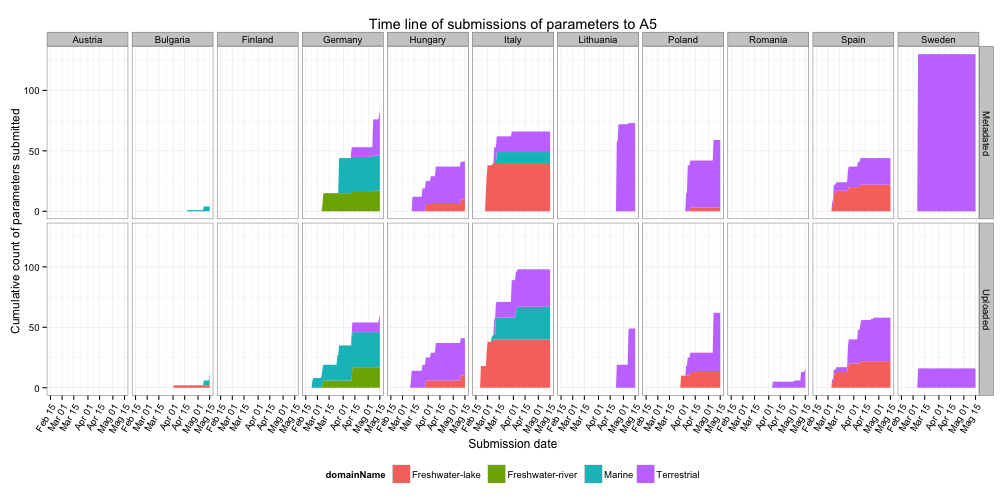
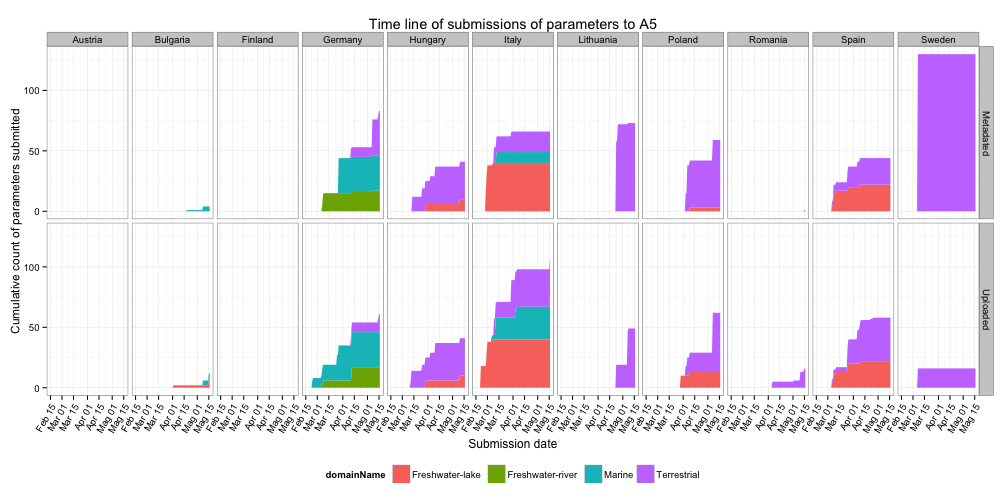
publishing deck

Changed region(s): [[0.0308, 0.8036, 0.9841, 0.8631]]

diff --git a/index.html b/index.html
@@ -48,9 +48,9 @@
   </hgroup>
   <article>
     <ul>
-<li>Last updated <code>2013-05-15</code></li>
+<li>Last updated <code>2013-05-16</code></li>
 <li>Deadline for data submission: <code>2013-03-08</code></li>
-<li>Days to deadline: <code>-68</code></li>
+<li>Days to deadline: <code>-69</code></li>
 <li>Total number of sites sampled in 2012: <code>61</code>; sub-sites: <code>65</code></li>
 </ul>
 
@@ -58,13 +58,13 @@
 
 <!-- html table generated in R 3.0.0 by xtable 1.7-1 package -->
 
-<!-- Wed May 15 14:31:09 2013 -->
+<!-- Thu May 16 22:51:19 2013 -->
 
 <TABLE border=1>
 <TR> <TH>  </TH> <TH> No. uploaded </TH> <TH> No. metadated </TH> <TH> Total no. </TH> <TH> Upload ratio </TH> <TH> Metadata ratio </TH>  </TR>
-  <TR> <TD align="right"> Year2012 </TD> <TD align="right"> 326 </TD> <TD align="right"> 397 </TD> <TD align="right"> 2026 </TD> <TD align="right"> 0.16 </TD> <TD align="right"> 0.20 </TD> </TR>
+  <TR> <TD align="right"> Year2012 </TD> <TD align="right"> 335 </TD> <TD align="right"> 397 </TD> <TD align="right"> 2026 </TD> <TD align="right"> 0.17 </TD> <TD align="right"> 0.20 </TD> </TR>
   <TR> <TD align="right"> Year2011 </TD> <TD align="right">  87 </TD> <TD align="right"> 104 </TD> <TD align="right"> 270 </TD> <TD align="right"> 0.32 </TD> <TD align="right"> 0.39 </TD> </TR>
-  <TR> <TD align="right"> Sum </TD> <TD align="right"> 413 </TD> <TD align="right"> 501 </TD> <TD align="right"> 2296 </TD> <TD align="right"> 0.18 </TD> <TD align="right"> 0.22 </TD> </TR>
+  <TR> <TD align="right"> Sum </TD> <TD align="right"> 422 </TD> <TD align="right"> 501 </TD> <TD align="right"> 2296 </TD> <TD align="right"> 0.18 </TD> <TD align="right"> 0.22 </TD> </TR>
    </TABLE>
 
   </article>

diff --git a/index.md b/index.md
@@ -26,19 +26,19 @@ github:
 
 ## State of uploading process
 
-* Last updated ``2013-05-15``
+* Last updated ``2013-05-16``
 * Deadline for data submission: `2013-03-08`
-* Days to deadline: ``-68``
+* Days to deadline: ``-69``
 * Total number of sites sampled in 2012: ``61``; sub-sites: ``65``
 
 Parameters uploaded and metadated:
 <!-- html table generated in R 3.0.0 by xtable 1.7-1 package -->
-<!-- Wed May 15 14:31:09 2013 -->
+<!-- Thu May 16 22:51:19 2013 -->
 <TABLE border=1>
 <TR> <TH>  </TH> <TH> No. uploaded </TH> <TH> No. metadated </TH> <TH> Total no. </TH> <TH> Upload ratio </TH> <TH> Metadata ratio </TH>  </TR>
-  <TR> <TD align="right"> Year2012 </TD> <TD align="right"> 326 </TD> <TD align="right"> 397 </TD> <TD align="right"> 2026 </TD> <TD align="right"> 0.16 </TD> <TD align="right"> 0.20 </TD> </TR>
+  <TR> <TD align="right"> Year2012 </TD> <TD align="right"> 335 </TD> <TD align="right"> 397 </TD> <TD align="right"> 2026 </TD> <TD align="right"> 0.17 </TD> <TD align="right"> 0.20 </TD> </TR>
   <TR> <TD align="right"> Year2011 </TD> <TD align="right">  87 </TD> <TD align="right"> 104 </TD> <TD align="right"> 270 </TD> <TD align="right"> 0.32 </TD> <TD align="right"> 0.39 </TD> </TR>
-  <TR> <TD align="right"> Sum </TD> <TD align="right"> 413 </TD> <TD align="right"> 501 </TD> <TD align="right"> 2296 </TD> <TD align="right"> 0.18 </TD> <TD align="right"> 0.22 </TD> </TR>
+  <TR> <TD align="right"> Sum </TD> <TD align="right"> 422 </TD> <TD align="right"> 501 </TD> <TD align="right"> 2296 </TD> <TD align="right"> 0.18 </TD> <TD align="right"> 0.22 </TD> </TR>
    </TABLE>
 
 
